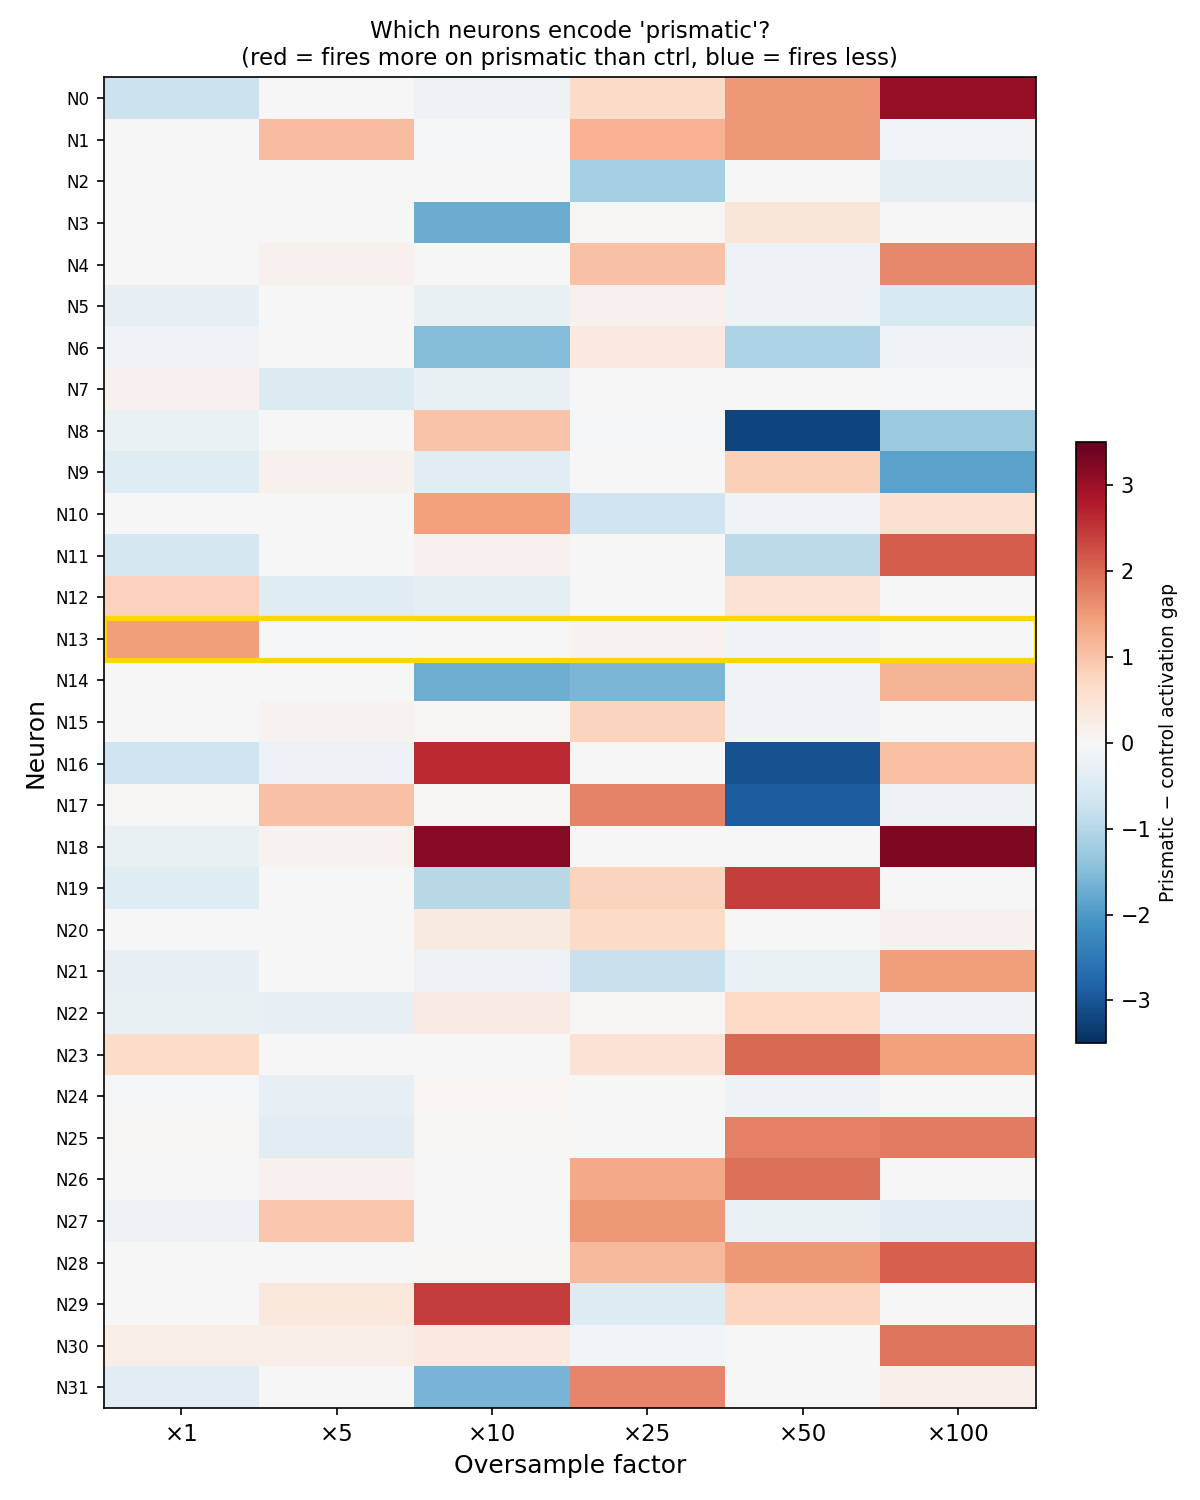
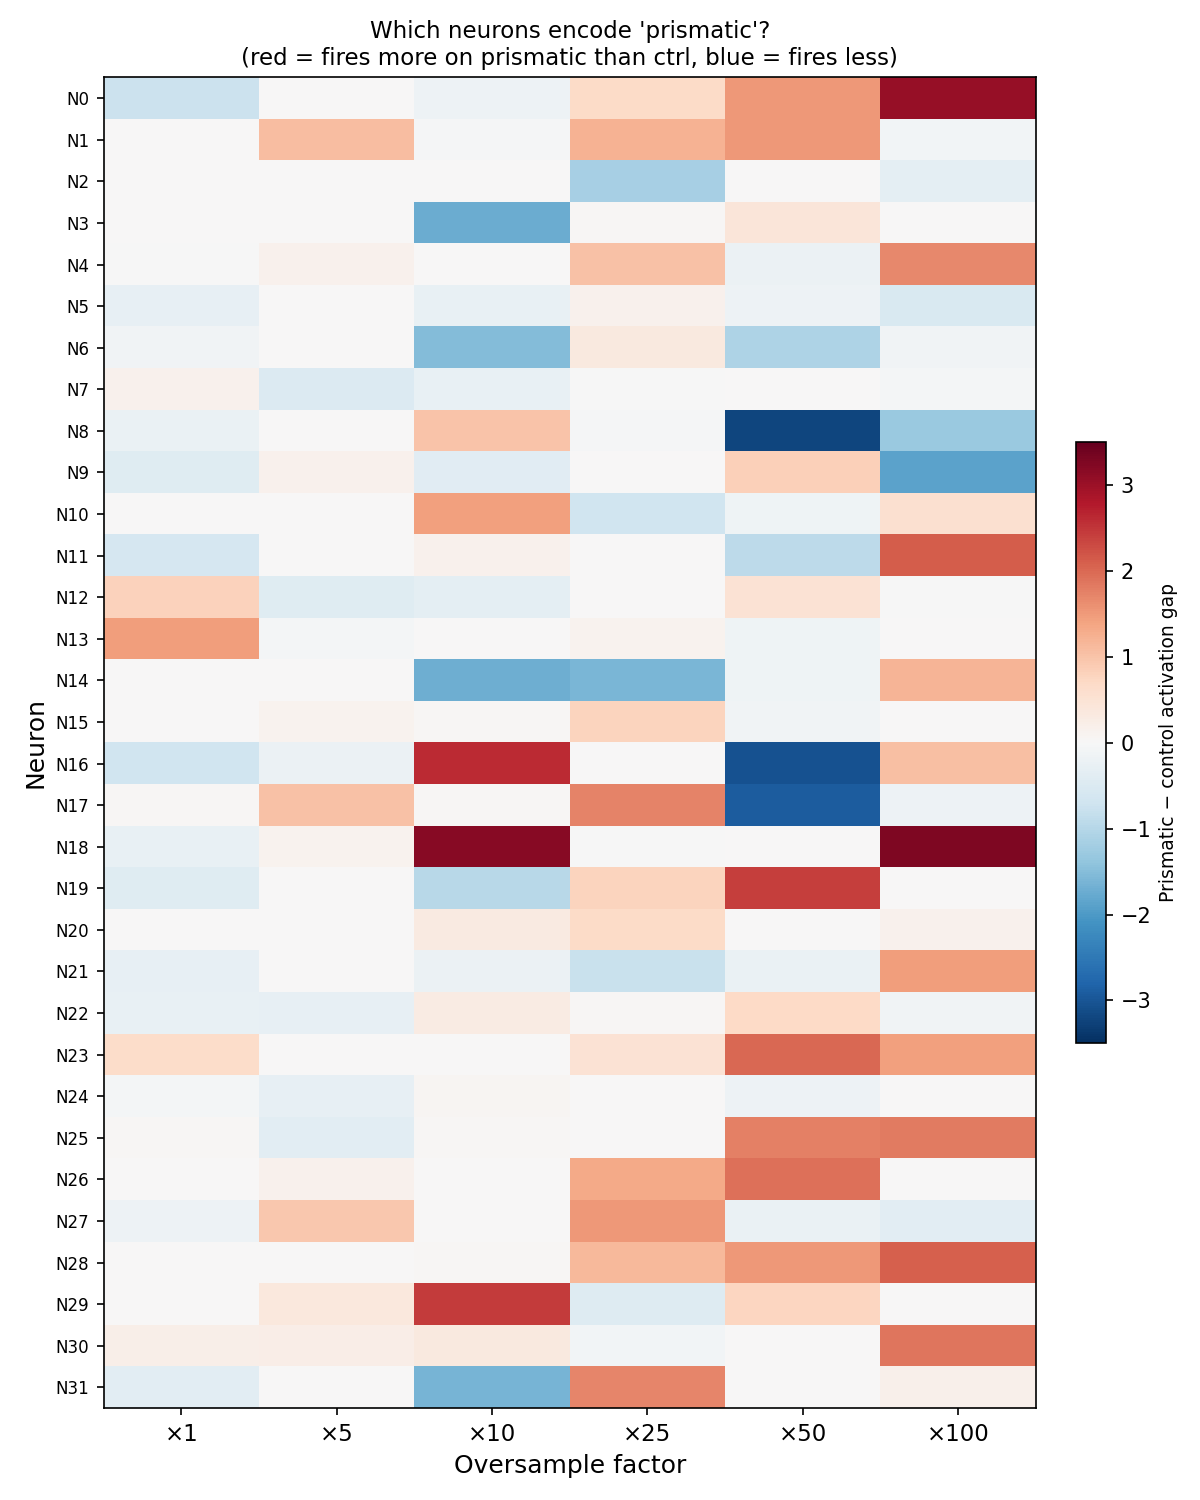
Reframe post around circuit behavior, not N13
Shift emphasis from N13 specifically to the overall circuit evolution:
how many neurons, how sharp the activation profiles, whether attention
participates. Remove N13 highlight from heatmap.

Changed region(s): [[0.0925, 0.3987, 0.8633, 0.46]]

diff --git a/_posts/2026-02-27-tft-oversampling-prismatic.md b/_posts/2026-02-27-tft-oversampling-prismatic.md
@@ -1,117 +1,118 @@
 ---
 layout: post
-title: "What happens to N13 when you force the model to care about prismatic boards?"
+title: "How does a model's prismatic detection circuit evolve under signal pressure?"
 date: 2026-02-27
 ---
 
-# What happens to N13 when you force the model to care about prismatic boards?
+# How does a model's prismatic detection circuit evolve under signal pressure?
 
-*N13 was the only neuron encoding prismatic trait detection. So we oversampled until the model had no choice but to take it seriously — and watched it completely rewire itself.*
+*Prismatic boards are the rarest and most predictive feature in the dataset. We oversampled them up to ×100 to watch what the model does as the signal grows.*
 
 ---
 
 ## The Setup
 
-In the [first post](/2026/02/19/tft-mechanistic-interpretability.html), I identified a neuron — N13 — that appeared to detect "trait-dense + emblem" boards: compositions where a single trait reaches a critical mass of units plus matching emblems. The clearest case of this is a **prismatic board**, where one trait reaches 10 units (e.g. 8 Bilgewater champions + 2 Bilgewater emblems), which in the actual game triggers a powerful bonus and nearly guarantees first place.
+In the [first post](/2026/02/19/tft-mechanistic-interpretability.html), I found that the model had learned something about **prismatic boards** — compositions where a single trait reaches 10 units (e.g. 8 Bilgewater champions + 2 Bilgewater emblems). These trigger a powerful in-game bonus and nearly guarantee first place. The model was predicting them reasonably well, and tracing back through the MLP revealed a small set of neurons with elevated activation on these boards.
 
-The model had clearly picked something up here. N13 activated on heavy trait boards with matching emblems and was near-zero everywhere else. But N13's weight toward 1st place (+0.33) was modest compared to the emblem-presence neurons (+1.0–+1.8), and the whole thing felt fragile — a weak signal riding in on co-occurrence patterns from only ~120 samples out of 24,344.
+But the encoding felt weak and noisy — understandable, given that only ~120 of 24,344 boards are prismatic (~0.5%). The model isn't being asked to care about them much. The natural question was: if we forced it to, what would the circuit actually look like? How many neurons would it use, how cleanly would they fire, and would the attention head ever get involved?
 
-The natural follow-up was: what if we gave the model more of these boards? Not synthetically generated — just oversample the real ones. If the signal is genuinely there, the model should learn a cleaner, stronger version. If N13 was incidental, it should fall apart.
+I trained six models from scratch with oversample factors ×1 (baseline), ×5, ×10, ×25, ×50, ×100. Everything else held constant — same architecture, same test set, same early stopping. At ×100, prismatic boards are 36.6% of the training set.
 
-I trained six fresh models from scratch: oversample factors ×1 (baseline), ×5, ×10, ×25, ×50, ×100. Everything else held constant — same architecture, same test set, same early stopping.
+**Prismatic**: any board where a single trait reaches ≥10 units (champions + matching emblems). 88% place 1st in the real data.
 
-**Prismatic definition**: any board where a single trait reaches ≥10 units (champions + matching emblems). There are 118 such boards in the dataset, 88% of which place 1st. At ×100, prismatic boards make up 36.6% of the training set.
-
----
-
-## What Happened to N13
-
-Short answer: it died at ×5 and never came back.
-
-![N13 activation on prismatic vs near-prismatic vs control boards across oversample factors](/assets/images/oversample_n13_collapse.png)
-*N13 fires strongly on prismatic boards at ×1. At ×5 it collapses to near-zero on everything. It never recovers a specific prismatic role at any higher factor.*
-
-At ×1, N13 fires at ~1.45 on prismatic boards and 0.00 on controls — reasonably clean. At ×5, it drops to ~0.07 on prismatic and 0.13 on controls. It's not just weakened, it's lost specificity entirely. At ×25 it reappears slightly (+0.12 specificity), but simultaneously fires equally on near-prismatic and control boards — it's no longer doing anything useful for prismatic detection. At ×100, it's zero everywhere.
-
-N13 was not a stable "prismatic neuron." It was whatever the model happened to use in one run under low-signal conditions. When the signal got stronger, the model rewired completely and N13 became irrelevant.
+Probe boards used throughout:
+- **Prismatic**: 8 trait champions + 2 fillers + 2 matching emblems = 10 of that trait
+- **Near-prismatic**: same 8 trait champions, no emblems (8 of trait)
+- **Controls**: non-trait boards with and without emblems
 
 ---
 
-## The Neurons That Replaced It
+## The Baseline Circuit Is Weak and Noisy
 
-Here's where things got interesting. The model didn't just lose N13 — it replaced it with a completely different set of neurons at every oversampling level, each with *higher* specificity than N13 ever had.
+At ×1, a handful of MLP neurons activate more on prismatic boards than controls, with the largest gaps around +0.6 to +1.5. But the specificity is poor: the leading neurons also partially fire on near-prismatic boards (8 trait champions, no emblems), suggesting they're picking up on champion density rather than the specific trait+emblem combination that defines a prismatic board.
 
-| Factor | New prismatic neurons (prismatic−control gap)                           |
-|--------|-------------------------------------------------------------------------|
-| ×1     | N13 (+1.45), N12 (+0.82), N23 (+0.63)                                  |
-| ×5     | N1 (+1.07), N17 (+1.02), N27 (+0.94)                                   |
-| ×10    | N18 (+3.18), N16 (+2.60), N29 (+2.45), N10 (+1.43)                     |
-| ×25    | N17 (+1.73), N31 (+1.72), N27 (+1.51), N26 (+1.32), N1 (+1.23)         |
-| ×50    | N19 (+2.42), N23 (+2.00), N26 (+1.93), N25 (+1.76), N1 (+1.53)         |
-| ×100   | N18 (+3.26), N0 (+3.04), N11 (+2.11), N28 (+2.08), N30 (+1.89)         |
+| Board type | Best neuron activation (×1) |
+|------------|------------------------------|
+| Prismatic (8 trait + 2 matching emb) | ~1.45 |
+| Near-prismatic (8 trait, no emb)     | ~0.49 |
+| Control + emblems                    | ~0.00 |
 
-At ×1, the prismatic signal is scattered weakly across a few neurons with gaps of ~0.6–1.5. At ×10+, 4–6 neurons each achieve gaps of 2–3+, all with near-zero activation on both near-prismatic and control boards. The representation has become **cleaner and stronger** — the model is allocating dedicated capacity with a much more binary activation profile.
+The model is not cleanly detecting "this board has reached the prismatic breakpoint." It's doing something messier — responding to high trait density with some additional response when matching emblems are also present. A weak, blurry version of the feature.
 
-The heatmap makes the instability obvious:
+---
+
+## The Circuit Sharpens Dramatically With More Signal
+
+This is the main result. As oversampling increases, the circuit changes in two important ways: it recruits **more neurons**, and each of those neurons develops a **cleaner, more binary** activation profile.
 
 ![Heatmap of neuron prismatic-vs-control gaps across all 32 neurons and 6 oversample factors](/assets/images/oversample_neuron_heatmap.png)
-*Each row is a neuron, each column is an oversample factor. Red = fires more on prismatic than controls, blue = fires less. The gold box highlights N13. No neuron consistently encodes prismatic across all factors — the "winning" neurons change entirely between runs.*
+*Each row is a neuron, each column is an oversample factor. Red = fires more on prismatic than controls, blue = fires less. At ×1 a couple of neurons show weak red. By ×10–×100, several neurons show deep red with much higher magnitude.*
 
-No single neuron appears consistently. N18 appears at ×10 (+3.18) and ×100 (+3.26), but is near-zero at ×5, ×25, ×50. N17 is strong at ×5 (+1.02) and ×25 (+1.73) but disappears at ×50 (−2.91, actively suppressed). The model reaches a different local minimum each time, and different neurons fill the functional slot.
+The table of top neurons tells the story numerically:
 
-Also notable: the feature splits. At ×1 one neuron roughly handles it. At ×10+, 4–6 neurons each carry part of the load. Whether this is superposition being resolved (multiple features encoded in one neuron, then separated), or just a natural consequence of a stronger gradient signal recruiting more capacity, I'm not sure. Worth looking at in a bigger model where you'd expect cleaner superposition dynamics.
+| Factor | Top prismatic neurons (prismatic−control gap) |
+|--------|-----------------------------------------------|
+| ×1     | 2–3 neurons, gaps of +0.6 to +1.5             |
+| ×5     | 3 neurons, gaps of +0.9 to +1.1               |
+| ×10    | 4 neurons, gaps of +1.4 to +3.2               |
+| ×25    | 5 neurons, gaps of +1.2 to +1.7               |
+| ×50    | 5 neurons, gaps of +1.5 to +2.4               |
+| ×100   | 4–5 neurons, gaps of +1.9 to +3.3             |
+
+At ×10 and above, the winning neurons are near-zero on both near-prismatic and control boards — not just lower, but essentially silent. The model has learned a precise binary detector: the specific trait+emblem co-occurrence triggers it, neither trait alone nor emblem alone does. This is a qualitatively different circuit from the baseline.
+
+| Board type | Best neuron activation (×1) | Best neuron activation (×10) |
+|------------|-----------------------------|-------------------------------|
+| Prismatic (8 trait + 2 matching emb) | ~1.45 | ~3.18 |
+| Near-prismatic (8 trait, no emb)     | ~0.49 | ~1.06 |
+| Control + emblems                    | ~0.00 | ~0.41 |
+
+Whether this constitutes genuine understanding of the prismatic mechanic, or just stronger memorization of the champion+emblem co-occurrence patterns that happen to appear together in winning training boards, is hard to say. My suspicion is mostly the latter — the same shortcut logic at higher fidelity. But the circuit structure is meaningfully cleaner either way.
 
 ---
 
-## The Activation Profile Gets Cleaner
+## Which Neurons? It Doesn't Matter
 
-At ×1, N13 fired at 1.45 on prismatic and 0.49 on near-prismatic — not sharp. The model was partially activating on 8-trait boards even without matching emblems, suggesting it was picking up something about champion density rather than the specific trait+emblem combination.
+The interesting thing about the heatmap is not which specific neurons light up — it's that they're completely different at every oversampling level.
 
-At ×10 and ×100, the new winning neurons (N18, N0, N11) activate at 2–3+ on prismatic boards and are essentially zero on near-prismatic and controls. The model has learned a more **precise binary detector**: trait+emblem combinations trigger it, neither trait alone nor emblem alone does.
+At ×5, the top neurons are N1, N17, N27. At ×10, N18, N16, N29. At ×25, N17, N31, N27, N26. At ×50, N19, N23, N26, N25. At ×100, N18, N0, N11, N28. No single neuron consistently develops prismatic specificity across all runs. The model reaches a different local minimum each time and assigns a different set of neurons to fill the same functional role.
 
-| Board type | N13 activation (×1) | Best neuron activation (×10) |
-|------------|---------------------|------------------------------|
-| Prismatic (8 trait + 2 matching emb) | 1.45 | 3.18 (N18) |
-| Near-prismatic (8 trait, no emb) | 0.49 | 1.06 (N18) |
-| Control + emblems | 0.00 | 0.41 (N18) |
-
-That said, this improvement is partly illusory: the ×10 model is seeing 5.5% prismatic training data vs 0.6% for ×1. It has much more direct supervision signal. Whether this constitutes a more principled understanding of the trait mechanic, or just better memorization of the specific champion+emblem configurations that appear in the training set, is hard to say. My suspicion is it's mostly the latter — the same co-occurrence logic at higher signal.
+This is a general point about interpreting small transformer MLPs: the neuron index is arbitrary. Any of the 32 neurons could become a "prismatic detector" given enough gradient signal — which ones do is determined by random initialization, not by the feature itself. The reproducible finding is the **circuit structure** (dedicated neurons, binary activation profile, silent on controls), not the **neuron identity**.
 
 ---
 
-## Predictions Get Better, Mostly
+## Predictions Get Better, Up To a Point
 
 ![Predicted placement for prismatic, near-prismatic, and control boards across oversample factors, with test MAE on secondary axis](/assets/images/oversample_predictions.png)
 *Predicted placement (lower = better) for the three board categories across oversample factors. Test MAE (right axis, also lower = better) is non-monotone: best at ×50.*
 
-The model's predictions for prismatic boards improve immediately with even small oversampling — from ~1.53 at ×1 to ~1.31 at ×5 and ×10. Near-prismatic and control board predictions also improve in contrast (the gap widens), which is good. The separation between prismatic and control grows substantially at ×50: prismatic gets a predicted placement of 1.40 while controls hit 5.00.
+The model's predictions for prismatic boards improve immediately — from ~1.53 at ×1 to ~1.31 at ×5 and ×10. The gap between prismatic and control board predictions also widens substantially, from ~2.1 at baseline to ~3.6 at ×50.
 
-What's more interesting is the overall test MAE, which is non-monotone. ×25 actually performs *worse* than baseline (1.4792 vs 1.4679). The best overall MAE is at ×50 (1.4588). So moderate oversampling helps; extreme oversampling (×100) starts to hurt the model on the common cases that make up most of the test set.
-
----
-
-## Attention Still Doesn't Care
-
-Across all six models, the fraction of attention directed at emblem tokens on prismatic boards (0.043–0.066) was statistically indistinguishable from that on control boards with emblems (0.035–0.070). Attention entropy showed no consistent decrease on prismatic boards at any factor.
-
-Even when prismatic boards are 36.6% of training data, the attention head doesn't learn to attend to emblems differently. The prismatic circuit lives entirely in embedding → sum pool → MLP. The attention head can't participate here — detecting "this specific champion + this specific matching emblem = trait bonus" would require attending to relationships between tokens, and a single rank-1 attention head with collapsed Q/K matrices (as described in the first post) simply doesn't have that capacity. The problem would need either a larger model or a fundamentally different architecture.
+Test MAE is non-monotone. ×25 actually performs slightly worse than baseline (1.4792 vs 1.4679) — the distributional shift is hurting the common cases. The best overall MAE is at ×50 (1.4588). Beyond that, the model starts overfitting to the overrepresented prismatic boards at the cost of everything else.
 
 ---
 
-## The Real Lesson: Neuron Identity Is Arbitrary
+## Attention Still Doesn't Participate
 
-This experiment started as a question about N13. It ended up revealing something more fundamental: **neuron-level mechanistic findings from a single training run aren't reproducible**. The neuron assigned to a function is determined by random initialization and gradient descent converging to one of many equivalent local minima — not by anything intrinsic about what that function needs.
+Across all six models, the fraction of attention directed at emblem tokens on prismatic boards (0.043–0.066) was indistinguishable from that on control boards with emblems (0.035–0.070). Attention entropy showed no consistent decrease on prismatic boards at any factor.
 
-The *circuit structure* is reproducible: give the model enough prismatic signal and it will always produce a set of dedicated neurons with high specificity and near-zero cross-activation. The *neuron identity* — which one of the 32 neurons fills that role — is not. N13 was just a name for a functional slot. If I had trained the original model with a different random seed, it might have been N7 or N22 or any other.
-
-This has a practical implication: when reporting mechanistic interpretability results, the interesting thing to describe is the activation profile and the functional role, not the neuron index. "N13 detects prismatic traits" is a finding about one training run; "the model dedicates 1–6 neurons to detecting trait-dense + matching-emblem compositions, with near-zero activation on controls" is the actual generalizable result.
+Even at ×100, with prismatic boards comprising over a third of training data, the attention head doesn't differentiate them. The prismatic circuit lives entirely in the embedding → sum pool → MLP pathway. This makes sense given the architecture: a single attention head with collapsed Q/K matrices (as described in the first post) encodes champion strength, not compositional relationships. Detecting "this champion + this matching emblem = trait bonus" would require the head to track cross-token interactions of a kind it has no capacity for. The problem is architectural, not a matter of signal.
 
 ---
+
+## Conclusions
+
+The main things I took from this:
+
+- **The circuit sharpens with signal.** At baseline, prismatic detection is weak and noisy — partial activation on champion density, not specifically the trait+emblem combination. With heavier oversampling, 4–6 dedicated neurons emerge with clean binary profiles: silent on near-prismatic and controls, strongly activated on prismatic boards.
+- **The feature splits.** What is handled by 1–2 neurons at ×1 is distributed across 4–6 neurons at ×10+. Whether this is superposition being resolved or just gradient signal recruiting more capacity, I'm not sure. A larger model (d_model=16 or 32) would be the right setting to investigate.
+- **Neuron identity is not the finding.** The interesting thing to describe is the activation profile and the circuit structure — not which specific neuron index carries the feature, since that's arbitrary across training runs.
+- **Attention is a dead end for this feature.** Not for lack of signal — even ×100 oversampling doesn't move it. The head needs a structural upgrade to participate in compositional detection.
 
 ## Open Questions
 
-- The feature splits from ~1 neuron at ×1 to 4–6 neurons at ×10+. Is this resolution of superposition, or just gradient signal recruiting more capacity? A model with d_model=16 or 32 would have more room for superposition and might show a cleaner version of this.
-- Can we systematically find which training samples have the largest gradient contribution to a specific neuron, and oversample those? This could be a more principled version of what we did here.
-- If we add 4 attention heads instead of 1, does attention ever learn to track emblem-champion co-occurrence? The first post noted that grokking in a related experiment required exactly 4 heads — maybe that's the minimum for compositional detection to emerge.
+- The feature splits from ~1–2 neurons at ×1 to 4–6 at higher factors. Is this superposition resolving as the feature becomes important enough to deserve its own dedicated directions? A larger embedding space would let us probe this more directly.
+- Can we identify which training samples drive the largest gradient updates to the prismatic circuit, and use that to oversample more efficiently rather than just repeating all prismatic boards equally?
+- If we use 4 attention heads instead of 1, does any head learn to attend to emblems differently on trait-heavy boards? The first post noted that grokking in a related experiment required exactly 4 heads — maybe that's the minimum for compositional detection to emerge in attention.
 
 *The code for this project is on [GitHub](https://github.com/alexayvazyan/projects).*
